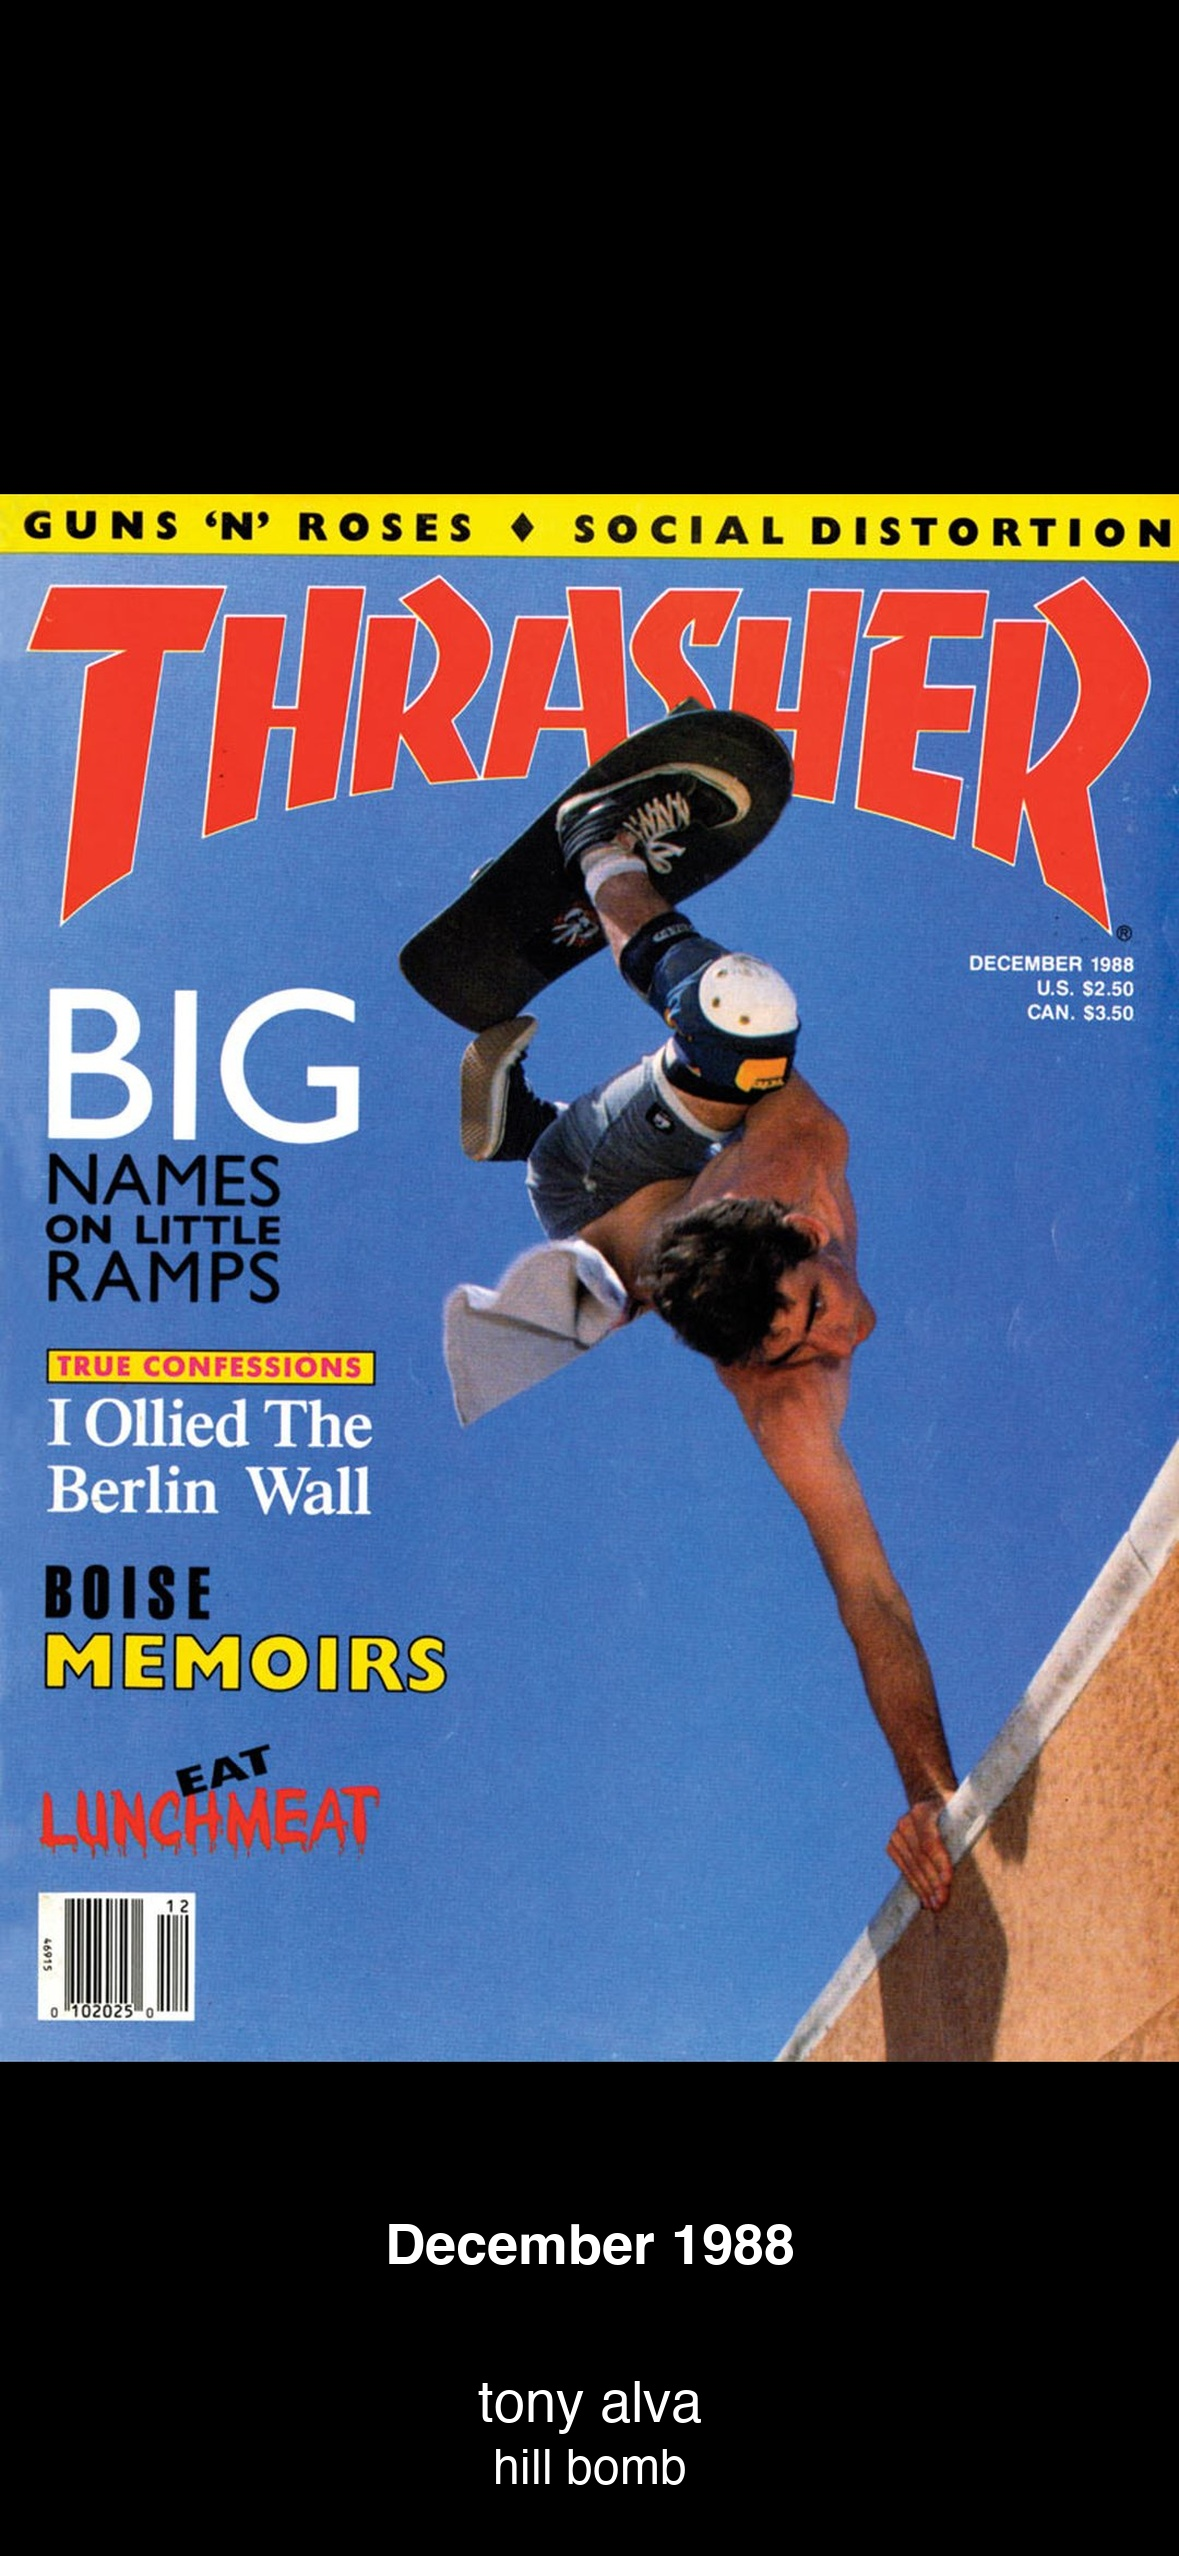
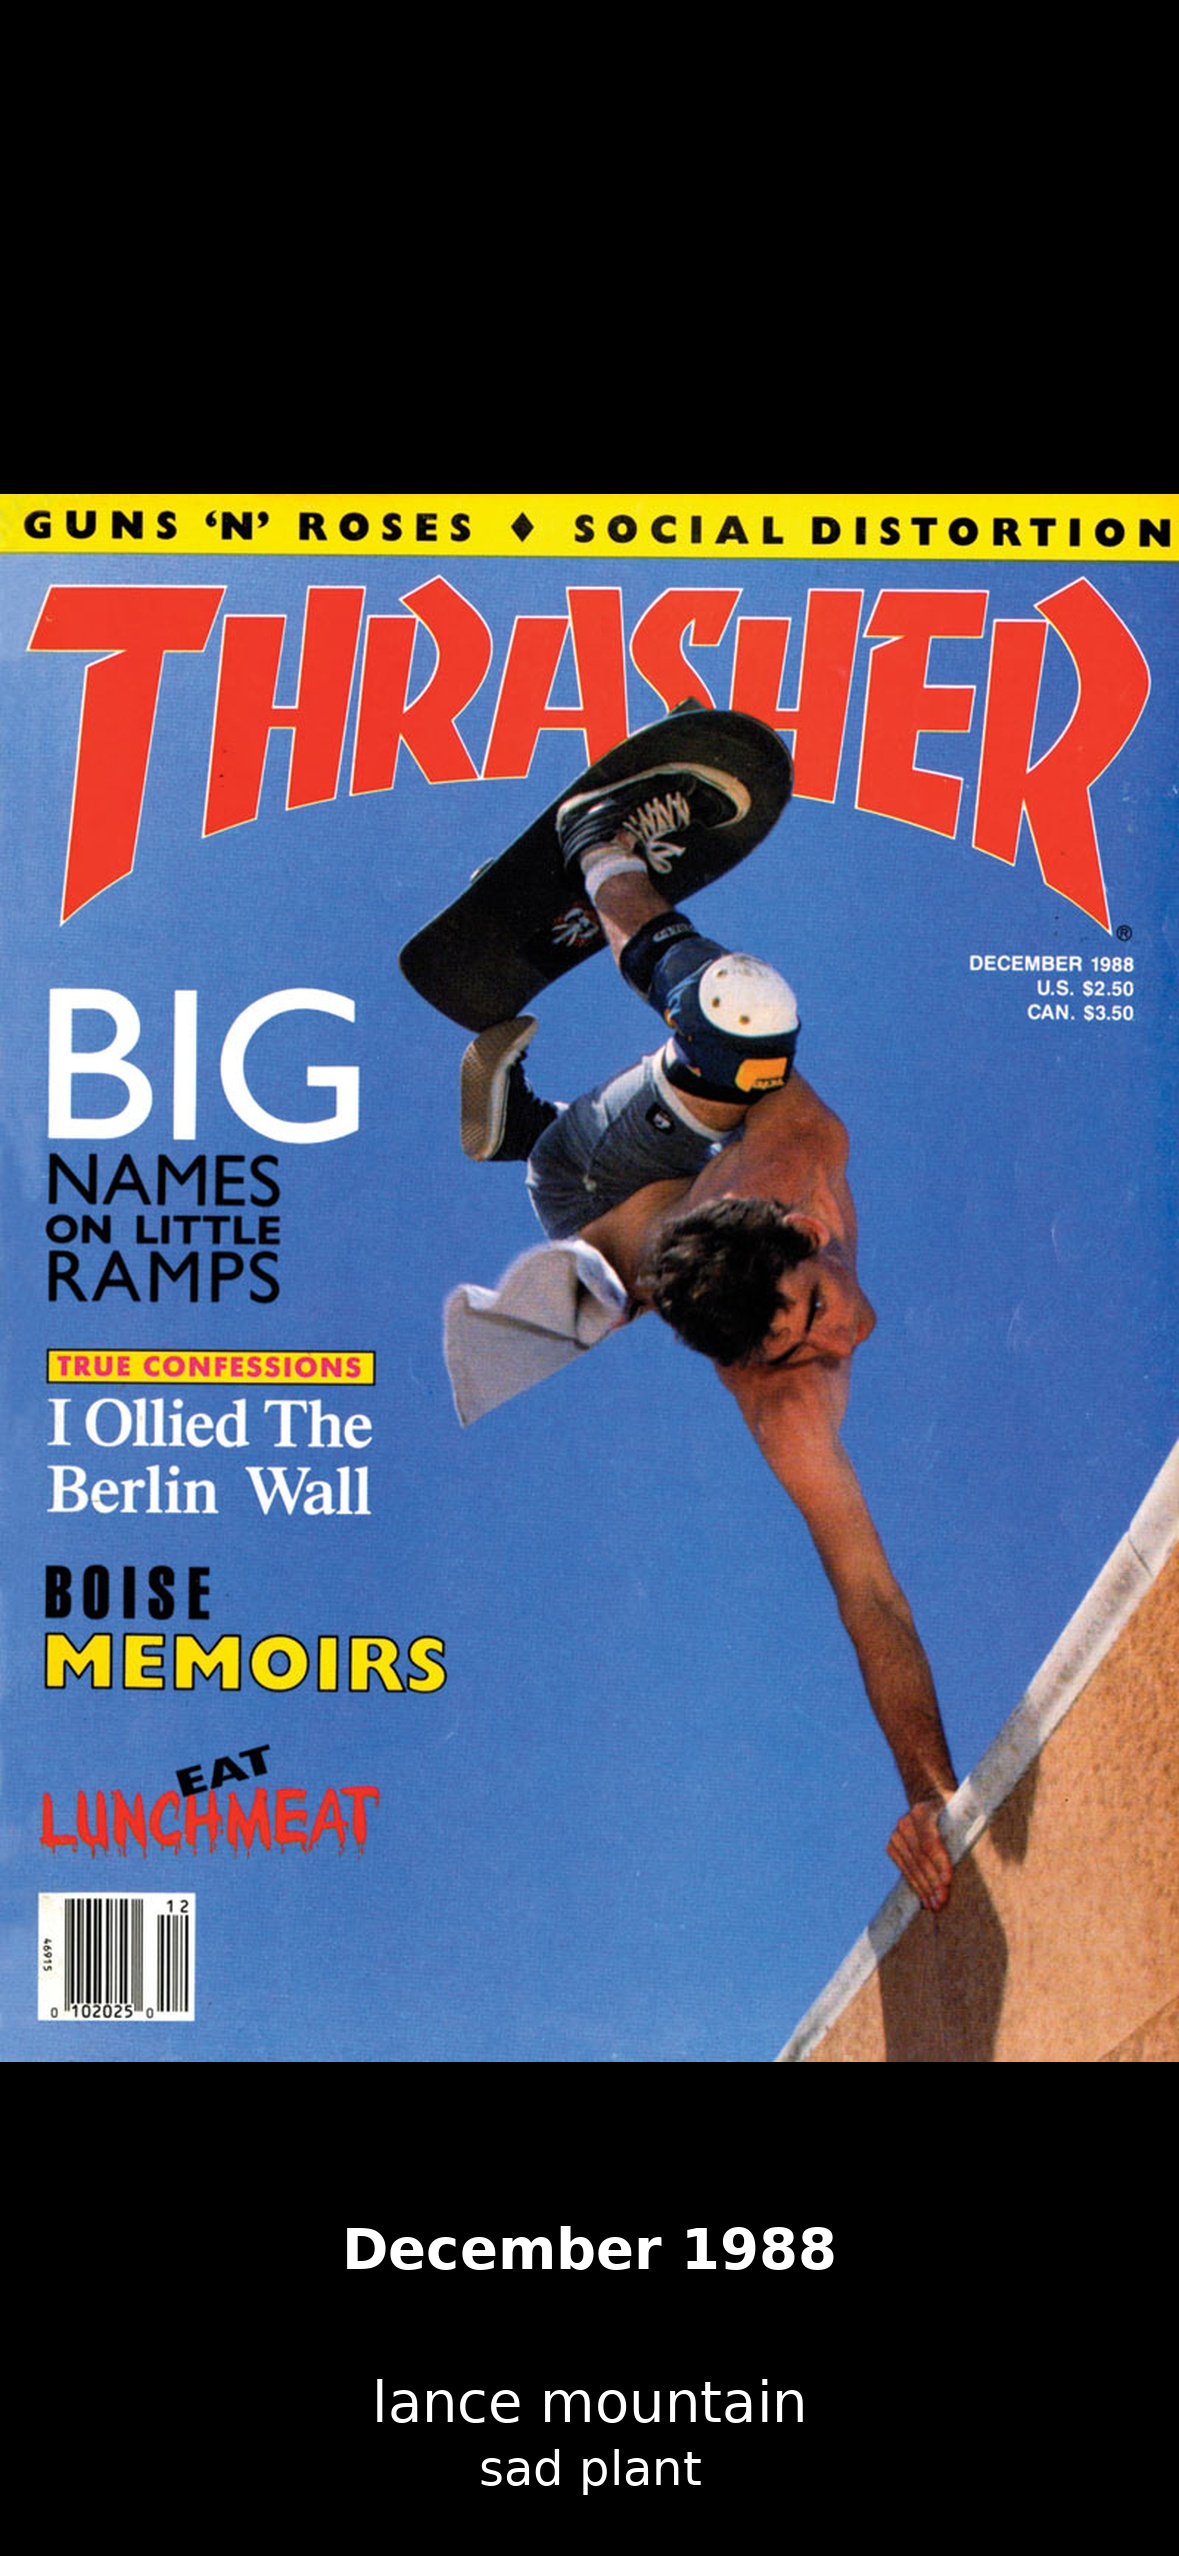
Fix December 1988 credits swapped with the Winter 13th issue
The lock screen showed Tony Alva's hill bomb because the 4ply Winter 1988 row was mapped onto December and overwrote Lance Mountain's sad plant. Keep the December cover and stop winter issues from taking that slot.

Changed region(s): [[0.3053, 0.9272, 0.6718, 0.989], [0.2748, 0.8654, 0.5496, 0.8963], [0.5802, 0.8654, 0.7023, 0.8963]]

diff --git a/scripts/apply_text_overlays_all.py b/scripts/apply_text_overlays_all.py
@@ -46,8 +46,9 @@ class TextOverlayApplier:
             'january': 1, 'february': 2, 'march': 3, 'april': 4,
             'may': 5, 'june': 6, 'july': 7, 'august': 8,
             'september': 9, 'october': 10, 'november': 11, 'december': 12,
-            'winter': 12  # Winter issue typically December
         }
+        # Winter is a 13th issue (1988: Tony Alva), not a stand-in for December.
+        # Mapping it to 12 overwrote the December cover (Lance Mountain, sad plant).
         return months.get(month_name.lower())
     
     def load_fonts(self):
